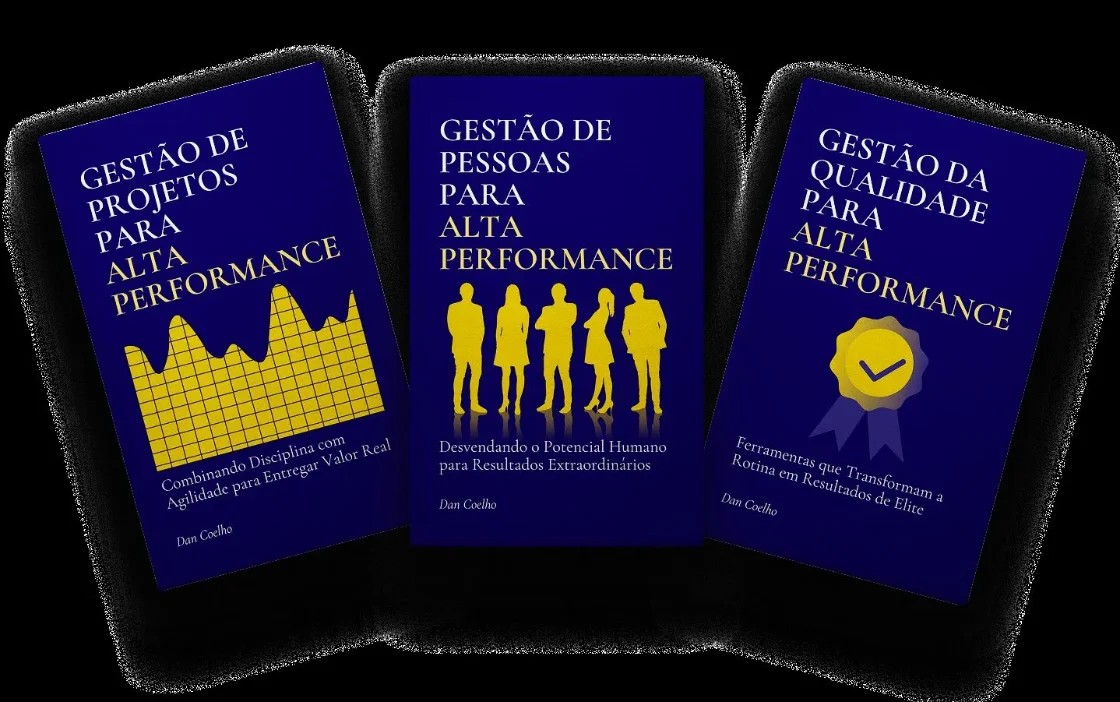
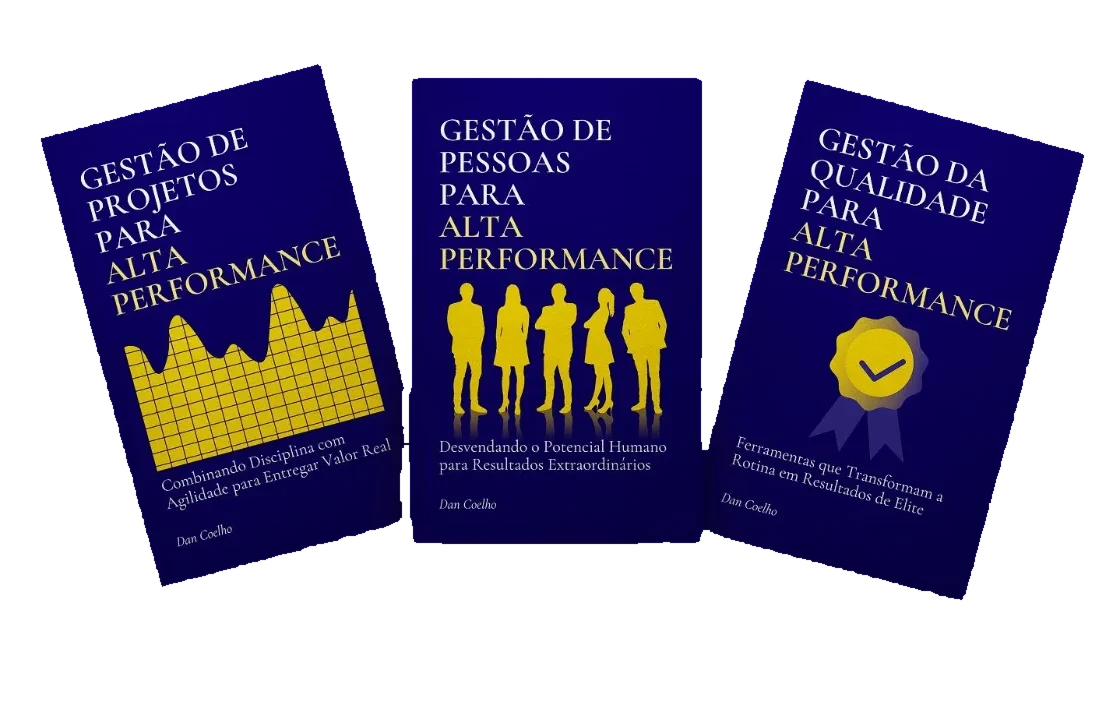
Hero: livros com fundo transparente (WEBP RGBA); nav sem amostra, CTA hero para Amazon, link da amostra no FAQ

diff --git a/index.html b/index.html
@@ -831,7 +831,6 @@
                 <li><a href="#books">Série</a></li>
                 <li><a href="#training">Treinamento</a></li>
                 <li><a href="#about">Autor</a></li>
-                <li><a href="https://www.mbalite.com.br/tr/2/15472284/14646051455/39808652/440472338359a78f86c471e8a1ebb10de433c61aa" target="_blank" rel="noopener" class="btn-nav-cta">Ler amostra exclusiva</a></li>
             </ul>
         </div>
     </nav>
@@ -846,8 +845,7 @@
                     desestruturadas em sistemas de alta eficiência.
                 </p>
                 <div>
-                    <a href="#training" class="btn-primary">Quero ser um gestor de elite</a>
-                    <a href="#books" class="btn-outline">Conheça a Série</a>
+                    <a href="https://www.amazon.com.br/MBA-lite/dp/B0FSZ5P258" target="_blank" rel="noopener" class="btn-primary">Quero ser um gestor de elite</a>
                 </div>
                 <div class="hero-badges">
                     <span><i class="fas fa-check-circle"></i> 15+ anos de experiência</span>
@@ -982,7 +980,7 @@
                 </details>
                 <details class="faq-item">
                     <summary>Como leio a amostra do e-book? <i class="fas fa-chevron-down"></i></summary>
-                    <div class="faq-body"><p>Direto pelo link, sem cadastro de e-mail. Sem custo e sem spam.</p></div>
+                    <div class="faq-body"><p><a href="https://www.mbalite.com.br/tr/2/15472284/14646051455/39808652/440472338359a78f86c471e8a1ebb10de433c61aa" target="_blank" rel="noopener">Direto pelo link</a>, sem cadastro de e-mail. Sem custo e sem spam.</p></div>
                 </details>
             </div>
         </div>
